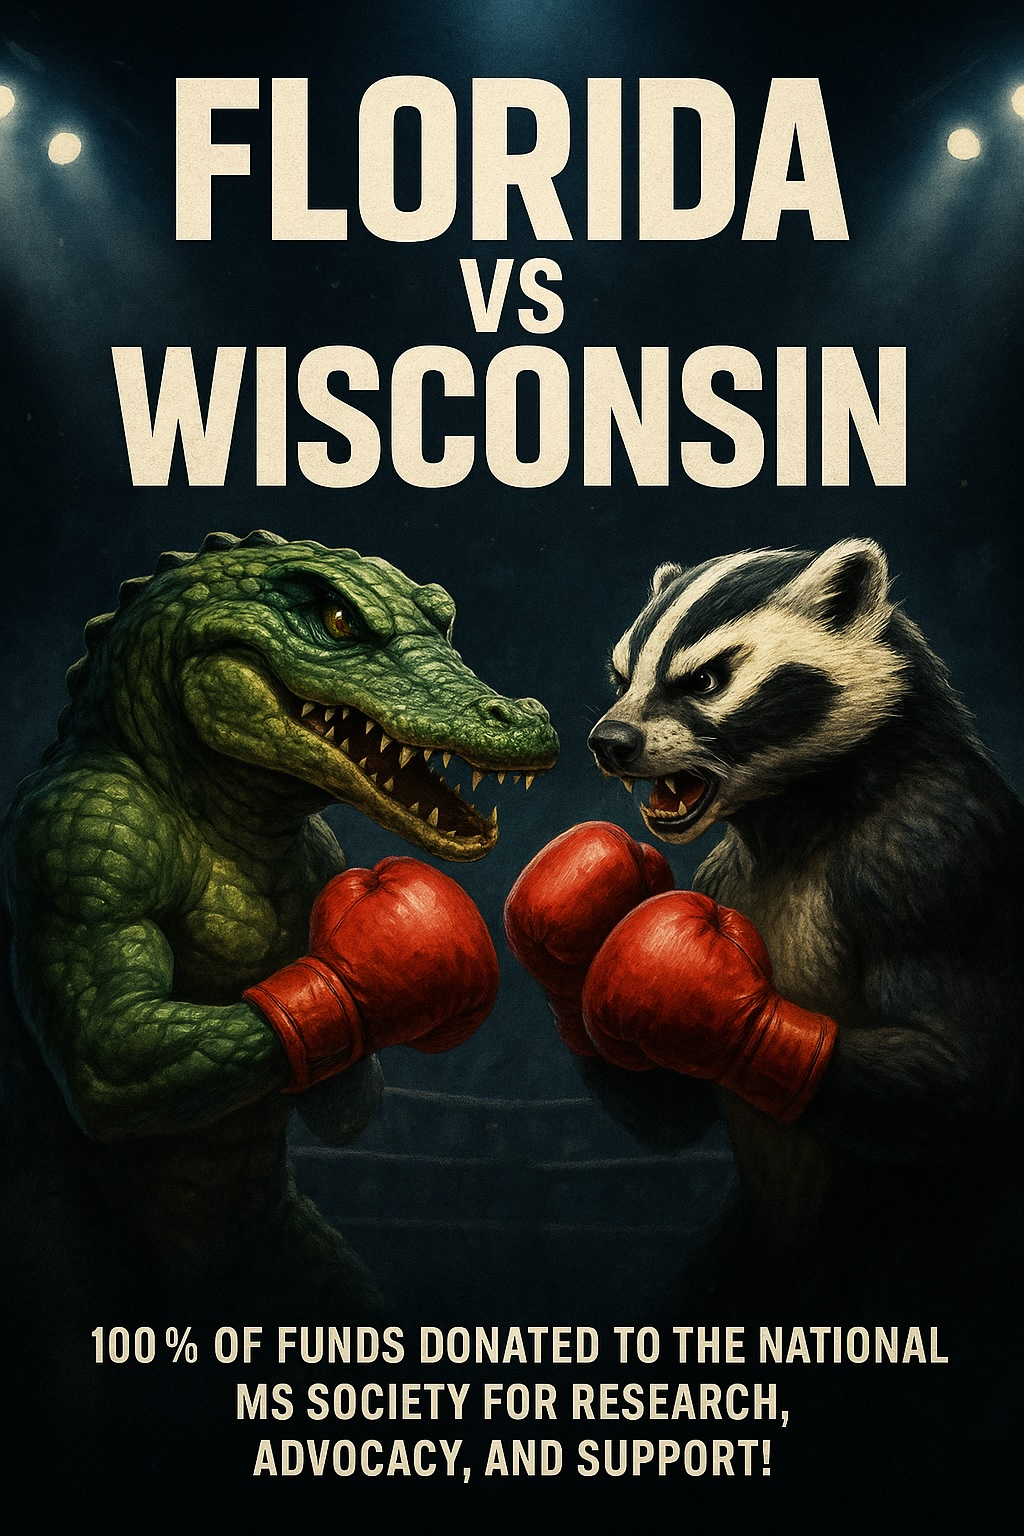
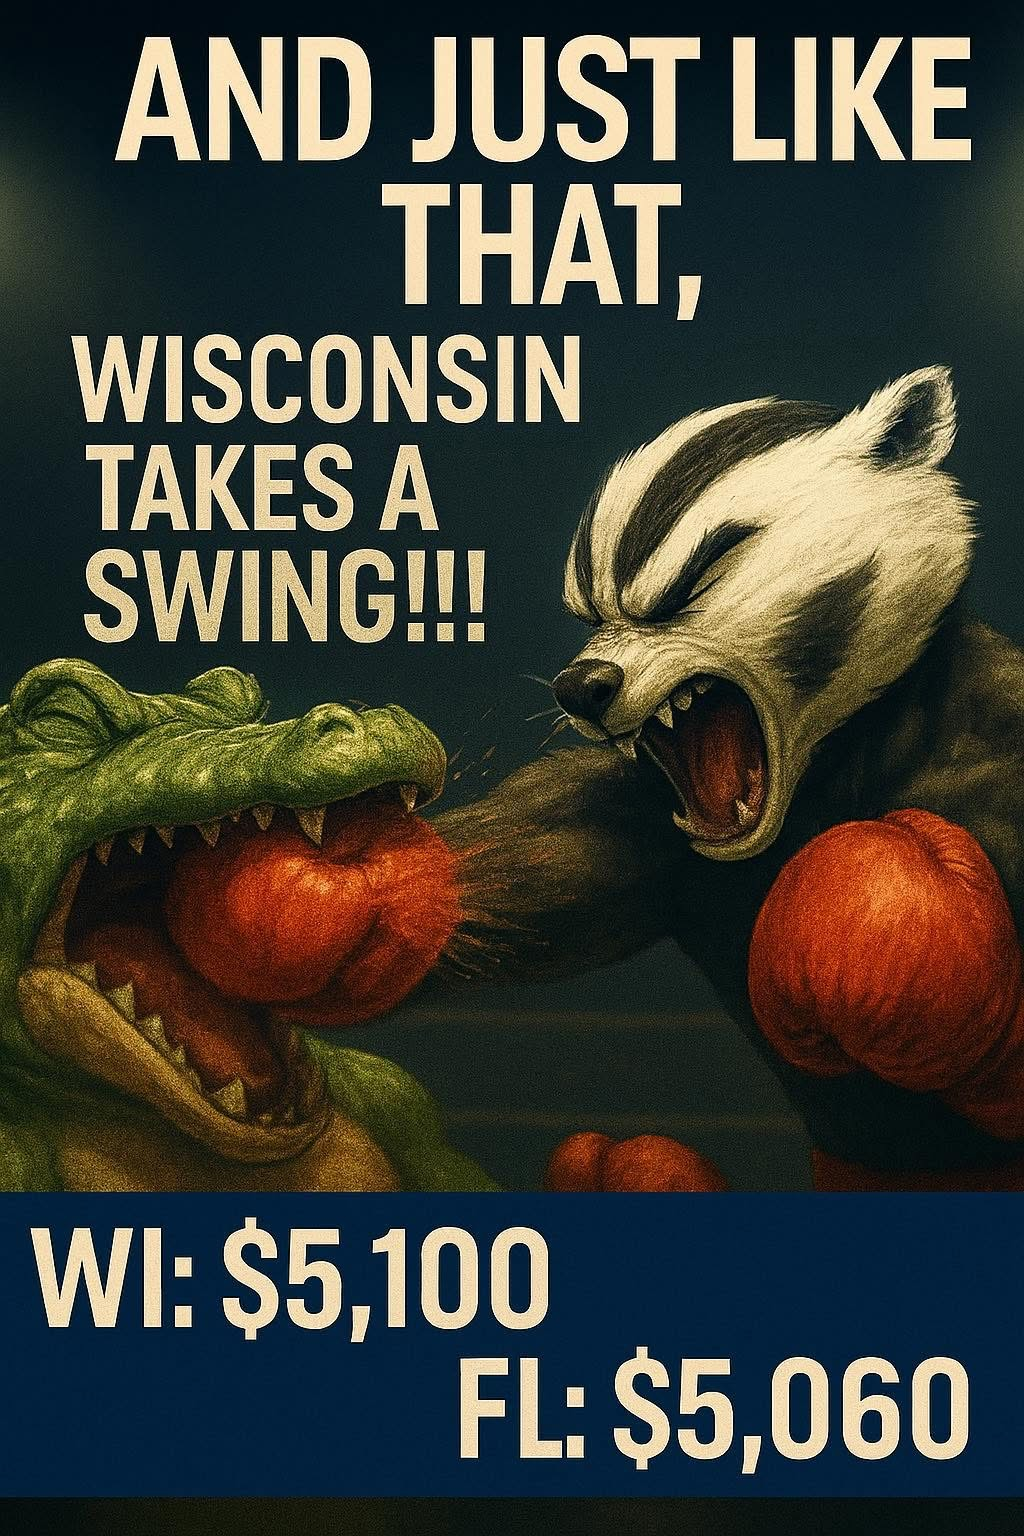
feat: add Wisconsin vs. Florida fundraising event
Replace Featured Event with epic fundraising battle image and stats

diff --git a/app/events/page.tsx b/app/events/page.tsx
@@ -6,7 +6,7 @@ import { Navigation } from "@/components/navigation"
 import { Footer } from "@/components/footer"
 import { MobileTextButton } from "@/components/mobile-text-button"
 import { BackToTopButton } from "@/components/back-to-top-button"
-import { Heart, Calendar, MapPin, Clock, Bike, Info } from "lucide-react"
+import { Heart, Calendar, MapPin, Bike, Info, Trophy } from "lucide-react"
 import { SocialMediaLinks } from "@/components/social-media-links"
 
 export default function EventsPage() {
@@ -46,151 +46,64 @@ export default function EventsPage() {
           </section>
 
           <section className="mb-16">
-            <h2 className="text-2xl font-bold mb-6 pb-2 border-b border-gray-200">Featured Events</h2>
+            <h2 className="text-2xl font-bold mb-6 pb-2 border-b border-gray-200">Featured Event</h2>
 
-            <div className="grid grid-cols-1 md:grid-cols-2 gap-8">
-              {/* Jax Bourbon Social */}
+            <div className="grid grid-cols-1 gap-8">
+              {/* Wisconsin vs Florida Fight */}
               <div className="bg-white rounded-xl overflow-hidden shadow-md hover:shadow-lg transition-shadow">
-                <div className="relative h-56 w-full bg-amber-50">
+                <div className="relative h-96 w-full">
                   <img
-                    src="/images/Jax BS.jpg.jpeg"
-                    alt="Jax Bourbon Social - Fundraising event for MS"
+                    src="/images/florida-vs-wisconsin.jpg"
+                    alt="Wisconsin vs Florida Fundraising Competition - Wisconsin Takes a Swing"
                     className="w-full h-full object-cover"
                     onError={(e) => {
-                      e.currentTarget.src = "/placeholder.svg?key=69rch"
+                      e.currentTarget.src = "/placeholder.svg?height=400&width=800&text=Wisconsin+vs+Florida+Fight"
                       e.currentTarget.onerror = null
                     }}
                   />
                   <div className="absolute inset-0 bg-gradient-to-t from-black/60 to-transparent"></div>
-                  <div className="absolute bottom-0 left-0 p-4 text-white">
-                    <h3 className="text-2xl font-bold">Jax Bourbon Social</h3>
-                    <p className="text-sm opacity-90">Premium bourbon tasting & fundraising</p>
+                  <div className="absolute bottom-0 left-0 p-6 text-white">
+                    <h3 className="text-3xl font-bold mb-2">Wisconsin vs. Florida Fight</h3>
+                    <p className="text-lg opacity-90">Fundraising Competition for MS Society</p>
                   </div>
                 </div>
-                <div className="p-5">
-                  <div className="grid grid-cols-1 sm:grid-cols-2 gap-3 mb-4">
-                    <div className="flex items-center gap-2">
-                      <Calendar className="w-5 h-5 text-red-600 flex-shrink-0" />
-                      <div>
-                        <p className="text-sm text-gray-500">Date</p>
-                        <p className="font-medium">July 19, 2025</p>
-                      </div>
+                <div className="p-6">
+                  <div className="grid grid-cols-1 md:grid-cols-2 gap-6 mb-6">
+                    <div className="bg-blue-50 rounded-lg p-4 text-center">
+                      <h4 className="text-lg font-bold text-blue-800 mb-2">Wisconsin</h4>
+                      <div className="text-3xl font-bold text-blue-600">$5,100</div>
+                      <p className="text-sm text-blue-700 mt-1">Current Total</p>
                     </div>
-                    <div className="flex items-center gap-2">
-                      <Clock className="w-5 h-5 text-red-600 flex-shrink-0" />
-                      <div>
-                        <p className="text-sm text-gray-500">Time</p>
-                        <p className="font-medium">4:00 PM - 9:00 PM</p>
-                      </div>
-                    </div>
-                    <div className="flex items-start gap-2 sm:col-span-2">
-                      <MapPin className="w-5 h-5 text-red-600 flex-shrink-0 mt-0.5" />
-                      <div>
-                        <p className="text-sm text-gray-500">Location</p>
-                        <p className="font-medium">3130 Parental Home Road, Jacksonville, FL 32216</p>
-                      </div>
+                    <div className="bg-orange-50 rounded-lg p-4 text-center">
+                      <h4 className="text-lg font-bold text-orange-800 mb-2">Florida</h4>
+                      <div className="text-3xl font-bold text-orange-600">$5,060</div>
+                      <p className="text-sm text-orange-700 mt-1">Current Total</p>
                     </div>
                   </div>
-                  <p className="text-gray-700 mb-5">
-                    Join us for an evening of bourbon tasting, delicious food, and fundraising for the National MS
-                    Society. This event features premium bourbon selections, silent auctions, and opportunities to
-                    connect with the MS community.
+                  <p className="text-gray-700 mb-6 text-lg">
+                    An epic fundraising battle between Wisconsin and Florida! Both states are competing to raise the
+                    most funds for the National Multiple Sclerosis Society. Wisconsin has taken the lead, but Florida is
+                    close behind. Every donation counts in this friendly competition to support MS research and
+                    programs.
                   </p>
-                  <div className="flex flex-wrap gap-3">
+                  <div className="flex flex-wrap gap-3 justify-center">
                     <Link
-                      href="https://www.jaxbourbonsocial.com/event-details"
+                      href="https://events.nationalmssociety.org/index.cfm?fuseaction=donate.participant&participantID=617194"
                       target="_blank"
                       rel="noopener noreferrer"
-                      className="inline-flex items-center gap-2 px-4 py-2 bg-amber-700 text-white rounded-md hover:bg-amber-800 transition-colors text-sm font-medium"
+                      className="inline-flex items-center gap-2 px-6 py-3 bg-blue-600 text-white rounded-md hover:bg-blue-700 transition-colors font-medium"
                     >
-                      <Info className="w-4 h-4" />
-                      <span>Event Details</span>
+                      <Trophy className="w-5 h-5" />
+                      <span>Support Wisconsin</span>
                     </Link>
                     <Link
-                      href="https://events.nationalmssociety.org/index.cfm?fuseaction=donordrive.participant&participantID=632965"
+                      href="https://events.nationalmssociety.org/participants/Casey-Murphy"
                       target="_blank"
                       rel="noopener noreferrer"
-                      className="inline-flex items-center gap-2 px-4 py-2 bg-red-600 text-white rounded-md hover:bg-red-700 transition-colors text-sm font-medium"
+                      className="inline-flex items-center gap-2 px-6 py-3 bg-orange-600 text-white rounded-md hover:bg-orange-700 transition-colors font-medium"
                     >
-                      <Heart className="w-4 h-4" />
-                      <span>Donate</span>
-                    </Link>
-                  </div>
-                </div>
-              </div>
-
-              {/* Jacksonville Jumbo Shrimp */}
-              <div className="bg-white rounded-xl overflow-hidden shadow-md hover:shadow-lg transition-shadow">
-                <div className="relative h-56 w-full bg-blue-50">
-                  <div className="absolute inset-0 flex items-center justify-center">
-                    <img
-                      src="/images/JumboShrimp.jpg"
-                      alt="Jacksonville Jumbo Shrimp Logo"
-                      className="w-48 h-48 object-contain max-w-full max-h-full"
-                      onError={(e) => {
-                        e.currentTarget.src = "/placeholder.svg?key=jumbo-shrimp"
-                        e.currentTarget.onerror = null
-                      }}
-                    />
-                  </div>
-                  <div className="absolute inset-0 bg-gradient-to-t from-black/40 to-transparent"></div>
-                  <div className="absolute bottom-0 left-0 p-4 text-white">
-                    <h3 className="text-2xl font-bold">Jacksonville Jumbo Shrimp</h3>
-                    <p className="text-sm opacity-90">Get to Know Your Neighbor Night</p>
-                  </div>
-                </div>
-                <div className="p-5">
-                  <div className="grid grid-cols-1 sm:grid-cols-2 gap-3 mb-4">
-                    <div className="flex items-center gap-2">
-                      <Calendar className="w-5 h-5 text-red-600 flex-shrink-0" />
-                      <div>
-                        <p className="text-sm text-gray-500">Date</p>
-                        <p className="font-medium">July 29, 2025</p>
-                      </div>
-                    </div>
-                    <div className="flex items-center gap-2">
-                      <Clock className="w-5 h-5 text-red-600 flex-shrink-0" />
-                      <div>
-                        <p className="text-sm text-gray-500">Time</p>
-                        <p className="font-medium">7:05 PM EDT</p>
-                      </div>
-                    </div>
-                    <div className="flex items-start gap-2 sm:col-span-2">
-                      <MapPin className="w-5 h-5 text-red-600 flex-shrink-0 mt-0.5" />
-                      <div>
-                        <p className="text-sm text-gray-500">Location</p>
-                        <p className="font-medium">
-                          VyStar Ballpark, 301 A Philip Randolph Blvd, Jacksonville, FL 32202
-                        </p>
-                      </div>
-                    </div>
-                  </div>
-                  <p className="text-gray-700 mb-3">
-                    Join us for Get to Know Your Neighbor Night as the Jacksonville Jumbo Shrimp take on the Columbus
-                    Clippers. This special event supports the National Multiple Sclerosis Society while enjoying
-                    America's favorite pastime.
-                  </p>
-                  <p className="text-sm text-gray-600 mb-5">
-                    <strong>Purchase Deadline:</strong> July 29, 2025 at 5:05 PM EDT
-                  </p>
-                  <div className="flex flex-wrap gap-3">
-                    <Link
-                      href="https://www.gofevo.com/event/Nationalmultiple6"
-                      target="_blank"
-                      rel="noopener noreferrer"
-                      className="inline-flex items-center gap-2 px-4 py-2 bg-blue-600 text-white rounded-md hover:bg-blue-700 transition-colors text-sm font-medium"
-                    >
-                      <Info className="w-4 h-4" />
-                      <span>Get Tickets</span>
-                    </Link>
-                    <Link
-                      href="https://events.nationalmssociety.org/index.cfm?fuseaction=donordrive.participant&participantID=632965"
-                      target="_blank"
-                      rel="noopener noreferrer"
-                      className="inline-flex items-center gap-2 px-4 py-2 bg-red-600 text-white rounded-md hover:bg-red-700 transition-colors text-sm font-medium"
-                    >
-                      <Heart className="w-4 h-4" />
-                      <span>Donate</span>
+                      <Trophy className="w-5 h-5" />
+                      <span>Support Florida</span>
                     </Link>
                   </div>
                 </div>
@@ -202,52 +115,51 @@ export default function EventsPage() {
             <h2 className="text-2xl font-bold mb-6 pb-2 border-b border-gray-200">Upcoming Bike MS Rides</h2>
 
             <div className="grid grid-cols-1 md:grid-cols-2 gap-8">
-              {/* Bike MS: Kentucky Bourbon Country Ride */}
+              {/* Bike MS: Wisconsin Best Dam Bike Tour */}
               <div className="bg-white rounded-xl overflow-hidden shadow-md hover:shadow-lg transition-shadow">
-                <div className="relative h-48 w-full bg-amber-50">
+                <div className="relative h-48 w-full bg-blue-50">
                   <div className="absolute inset-0 flex items-center justify-center">
-                    <div className="text-amber-800 text-center">
+                    <div className="text-blue-800 text-center">
                       <Bike className="w-16 h-16 mx-auto mb-2" />
-                      <h3 className="text-xl font-bold">Bluegrass Bourbon Ride</h3>
+                      <h3 className="text-xl font-bold">Best Dam Bike Tour</h3>
                     </div>
                   </div>
-                  <div className="absolute top-0 right-0 bg-amber-600 text-white px-3 py-1 m-3 rounded-full text-sm font-medium">
-                    Kentucky
+                  <div className="absolute top-0 right-0 bg-blue-600 text-white px-3 py-1 m-3 rounded-full text-sm font-medium">
+                    Wisconsin
                   </div>
                 </div>
                 <div className="p-5">
-                  <h3 className="text-xl font-bold mb-3">Bike MS: Bluegrass Bourbon Ride</h3>
+                  <h3 className="text-xl font-bold mb-3">Bike MS: Best Dam Bike Tour</h3>
                   <div className="grid grid-cols-1 sm:grid-cols-2 gap-3 mb-4">
                     <div className="flex items-center gap-2">
                       <Calendar className="w-5 h-5 text-red-600 flex-shrink-0" />
                       <div>
                         <p className="text-sm text-gray-500">Date</p>
-                        <p className="font-medium">June 14-15, 2025</p>
+                        <p className="font-medium">August 2-3, 2025</p>
                       </div>
                     </div>
                     <div className="flex items-center gap-2">
                       <MapPin className="w-5 h-5 text-red-600 flex-shrink-0" />
                       <div>
                         <p className="text-sm text-gray-500">Location</p>
-                        <p className="font-medium">Bardstown, KY</p>
+                        <p className="font-medium">Baraboo, WI</p>
                       </div>
                     </div>
                     <div className="flex items-center gap-2 sm:col-span-2">
                       <Bike className="w-5 h-5 text-red-600 flex-shrink-0" />
                       <div>
-                        <p className="text-sm text-gray-500">Distance Options</p>
-                        <p className="font-medium">30, 50, 75, or 100 miles</p>
+                        <p className="text-sm text-gray-500">Estimated Mileage</p>
+                        <p className="font-medium">150 miles</p>
                       </div>
                     </div>
                   </div>
                   <p className="text-gray-700 mb-5">
-                    Experience the rolling hills and scenic beauty of Kentucky's bourbon country in this two-day cycling
-                    event. Ride through historic distillery routes and enjoy the camaraderie of fellow cyclists
-                    supporting the MS cause.
+                    Experience the scenic beauty of Wisconsin's countryside in this two-day cycling event. Ride through
+                    rolling hills and picturesque landscapes while supporting the MS community and research efforts.
                   </p>
                   <div className="flex flex-wrap gap-3">
                     <Link
-                      href="https://events.nationalmssociety.org/index.cfm?fuseaction=donorDrive.event&eventID=2094"
+                      href="https://events.nationalmssociety.org/events/2263"
                       target="_blank"
                       rel="noopener noreferrer"
                       className="inline-flex items-center gap-2 px-4 py-2 bg-blue-600 text-white rounded-md hover:bg-blue-700 transition-colors text-sm font-medium"
@@ -256,7 +168,7 @@ export default function EventsPage() {
                       <span>Event Details</span>
                     </Link>
                     <Link
-                      href="https://events.nationalmssociety.org/index.cfm?fuseaction=donordrive.participant&participantID=632965"
+                      href="https://events.nationalmssociety.org/index.cfm?fuseaction=donate.participant&participantID=617194"
                       target="_blank"
                       rel="noopener noreferrer"
                       className="inline-flex items-center gap-2 px-4 py-2 bg-red-600 text-white rounded-md hover:bg-red-700 transition-colors text-sm font-medium"
@@ -268,52 +180,51 @@ export default function EventsPage() {
                 </div>
               </div>
 
-              {/* Bike MS: Colorado Ride */}
+              {/* Bike MS: Georgia Peach Ride */}
               <div className="bg-white rounded-xl overflow-hidden shadow-md hover:shadow-lg transition-shadow">
-                <div className="relative h-48 w-full bg-green-50">
+                <div className="relative h-48 w-full bg-orange-50">
                   <div className="absolute inset-0 flex items-center justify-center">
-                    <div className="text-green-800 text-center">
+                    <div className="text-orange-800 text-center">
                       <Bike className="w-16 h-16 mx-auto mb-2" />
-                      <h3 className="text-xl font-bold">Colorado Ride</h3>
+                      <h3 className="text-xl font-bold">Georgia Peach Ride</h3>
                     </div>
                   </div>
-                  <div className="absolute top-0 right-0 bg-green-600 text-white px-3 py-1 m-3 rounded-full text-sm font-medium">
-                    Boulder
+                  <div className="absolute top-0 right-0 bg-orange-600 text-white px-3 py-1 m-3 rounded-full text-sm font-medium">
+                    Georgia
                   </div>
                 </div>
                 <div className="p-5">
-                  <h3 className="text-xl font-bold mb-3">Bike MS: Colorado Ride</h3>
+                  <h3 className="text-xl font-bold mb-3">Bike MS: Georgia Peach Ride</h3>
                   <div className="grid grid-cols-1 sm:grid-cols-2 gap-3 mb-4">
                     <div className="flex items-center gap-2">
                       <Calendar className="w-5 h-5 text-red-600 flex-shrink-0" />
                       <div>
                         <p className="text-sm text-gray-500">Date</p>
-                        <p className="font-medium">June 28-29, 2025</p>
+                        <p className="font-medium">September 13, 2025</p>
                       </div>
                     </div>
                     <div className="flex items-center gap-2">
                       <MapPin className="w-5 h-5 text-red-600 flex-shrink-0" />
                       <div>
                         <p className="text-sm text-gray-500">Location</p>
-                        <p className="font-medium">Boulder, CO</p>
+                        <p className="font-medium">LaGrange, GA</p>
                       </div>
                     </div>
                     <div className="flex items-center gap-2 sm:col-span-2">
                       <Bike className="w-5 h-5 text-red-600 flex-shrink-0" />
                       <div>
-                        <p className="text-sm text-gray-500">Distance Options</p>
-                        <p className="font-medium">30, 68, or 100 miles</p>
+                        <p className="text-sm text-gray-500">Estimated Mileage</p>
+                        <p className="font-medium">75 miles</p>
                       </div>
                     </div>
                   </div>
                   <p className="text-gray-700 mb-5">
-                    Challenge yourself with the breathtaking mountain views of Colorado in this two-day cycling event.
-                    Experience the majestic Rocky Mountain scenery while riding to support the MS community and
-                    research.
+                    Join us for a one-day cycling challenge through the beautiful Georgia countryside. Experience the
+                    charm of the Peach State while riding to support the MS community and advance research efforts.
                   </p>
                   <div className="flex flex-wrap gap-3">
                     <Link
-                      href="https://events.nationalmssociety.org/index.cfm?fuseaction=donorDrive.event&eventID=2099"
+                      href="https://events.nationalmssociety.org/events/2379"
                       target="_blank"
                       rel="noopener noreferrer"
                       className="inline-flex items-center gap-2 px-4 py-2 bg-blue-600 text-white rounded-md hover:bg-blue-700 transition-colors text-sm font-medium"
@@ -322,7 +233,7 @@ export default function EventsPage() {
                       <span>Event Details</span>
                     </Link>
                     <Link
-                      href="https://events.nationalmssociety.org/index.cfm?fuseaction=donordrive.participant&participantID=632965"
+                      href="https://events.nationalmssociety.org/participants/Casey-Murphy"
                       target="_blank"
                       rel="noopener noreferrer"
                       className="inline-flex items-center gap-2 px-4 py-2 bg-red-600 text-white rounded-md hover:bg-red-700 transition-colors text-sm font-medium"
@@ -340,7 +251,7 @@ export default function EventsPage() {
             <h2 className="text-2xl font-bold mb-6 pb-2 border-b border-gray-200">2025 Cycling Statistics</h2>
 
             <div className="bg-white rounded-xl shadow-md p-6">
-              <div className="grid grid-cols-1 md:grid-cols-3 gap-6">
+              <div className="grid grid-cols-1 md:grid-cols-4 gap-6">
                 <div className="bg-gray-50 rounded-lg p-5 text-center">
                   <h3 className="text-lg font-semibold text-gray-700 mb-2">Q1 (Jan-Mar)</h3>
                   <div className="text-3xl font-bold mb-1 whitespace-nowrap">366.74 miles</div>
@@ -349,14 +260,20 @@ export default function EventsPage() {
 
                 <div className="bg-gray-50 rounded-lg p-5 text-center">
                   <h3 className="text-lg font-semibold text-gray-700 mb-2">Q2 (Apr-Jun)</h3>
-                  <div className="text-3xl font-bold mb-1 whitespace-nowrap">250.2 miles</div>
-                  <p className="text-gray-500 text-sm">Time: 11:06:50</p>
+                  <div className="text-3xl font-bold mb-1 whitespace-nowrap">539 miles</div>
+                  <p className="text-gray-500 text-sm">Time: 37:01:08</p>
+                </div>
+
+                <div className="bg-gray-50 rounded-lg p-5 text-center">
+                  <h3 className="text-lg font-semibold text-gray-700 mb-2">Q3 (Jul-Sep)</h3>
+                  <div className="text-3xl font-bold mb-1 whitespace-nowrap">128 miles</div>
+                  <p className="text-gray-500 text-sm">Time: 08:17:42</p>
                 </div>
 
                 <div className="bg-red-50 rounded-lg p-5 text-center">
                   <h3 className="text-lg font-semibold text-red-700 mb-2">Total 2025</h3>
-                  <div className="text-3xl font-bold mb-1 whitespace-nowrap">616.94 miles</div>
-                  <p className="text-gray-500 text-sm">Time: 35:54:38</p>
+                  <div className="text-3xl font-bold mb-1 whitespace-nowrap">1033.74 miles</div>
+                  <p className="text-gray-500 text-sm">Time: 70:06:38</p>
                 </div>
               </div>
             </div>
